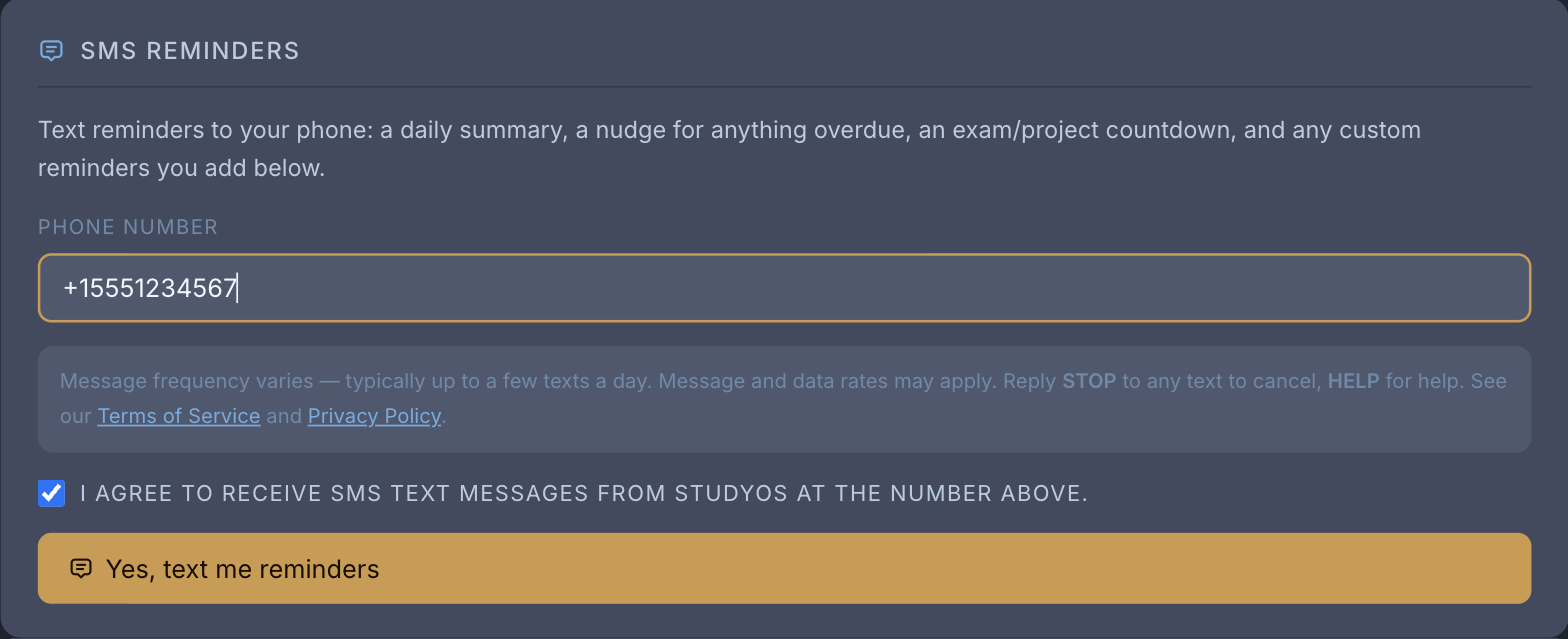
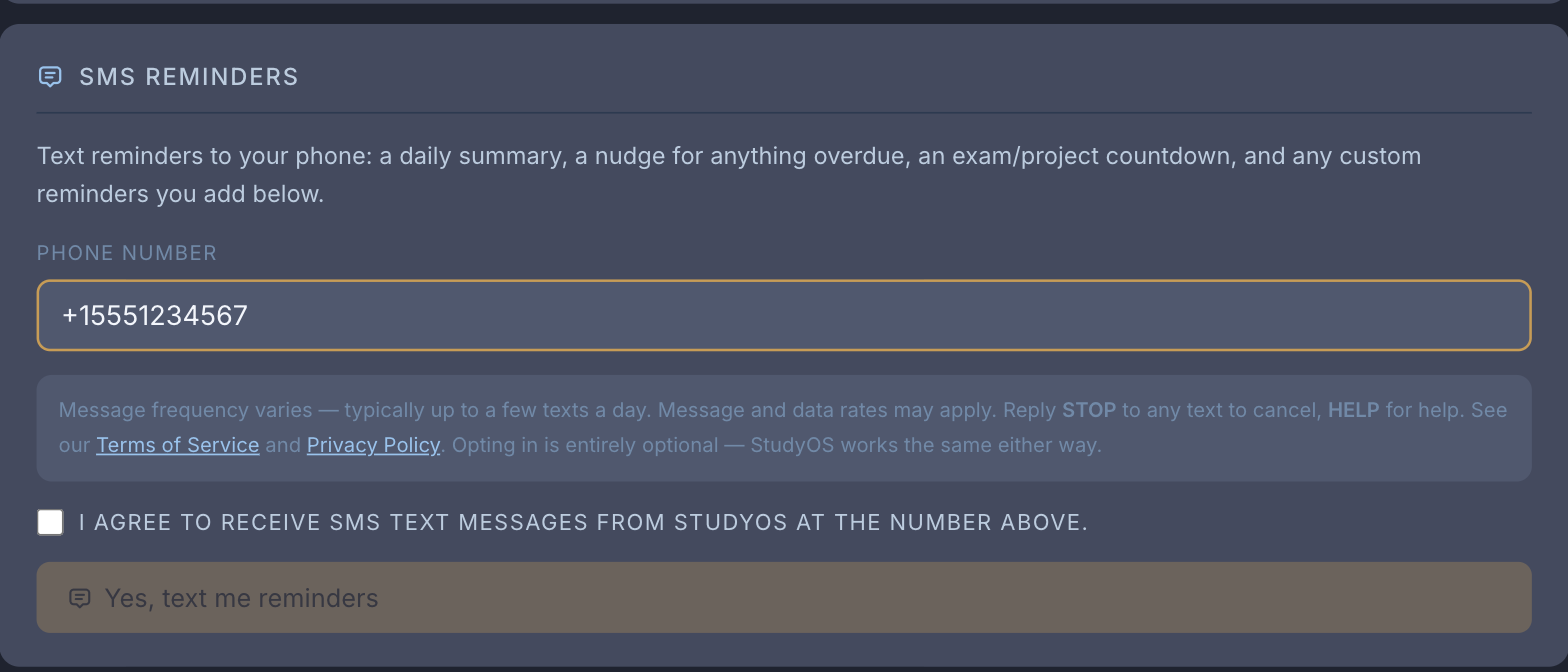
SMS opt-in evidence page: screenshot now shows the real unchecked-by-default state
Real cause of the Twilio A2P 10DLC rejection (Error 30925, checkbox
'pre-selected by default'): the code has always defaulted the
consent checkbox to unchecked -- the evidence screenshot on
studyos.io/sms-optin just happened to have been captured with the
box already checked, giving the reviewer exactly the wrong
impression.

- Retook the screenshot from the real live screen in its true
  default state -- box unchecked, submit button visibly
  disabled/greyed -- with a placeholder phone number instead of a
  real one.
- Fixed the image's alt text, which separately (and wrongly) said 'a
  checked consent checkbox', directly contradicting the correct
  'unchecked by default' text one paragraph above it. Strengthened
  the surrounding copy to call out the default state explicitly.

Claude-Session: https://claude.ai/code/session_017evPLa9F6u6Gpj79xWjiqx

diff --git a/app/sms-optin/page.jsx b/app/sms-optin/page.jsx
@@ -33,13 +33,15 @@ export default function SmsOptIn() {
           </ol>
           <p style={{ ...P, marginTop: 10 }}>
             This screen requires an account and login, so it isn't independently crawlable — the
-            screenshot below shows the exact, live screen from a real account.
+            screenshot below shows the exact, live screen from a real account, in its default
+            state: <strong>the consent checkbox unchecked, and the submit button correspondingly
+            disabled</strong> until the user actively checks it themselves.
           </p>
         </div>
 
         <div style={{ marginBottom: 28 }}>
-          <div style={H}>Screenshot of the live opt-in screen</div>
-          <img src="/sms-optin-screenshot.png" alt="StudyOS SMS Reminders opt-in screen, showing the phone number field, message frequency and rate disclosure, STOP/HELP instructions, Terms of Service and Privacy Policy links, a checked consent checkbox, and the Yes, text me reminders button."
+          <div style={H}>Screenshot of the live opt-in screen (default state)</div>
+          <img src="/sms-optin-screenshot.png" alt="StudyOS SMS Reminders opt-in screen in its default state: the phone number field, message frequency and rate disclosure, STOP/HELP instructions, Terms of Service and Privacy Policy links, an UNCHECKED consent checkbox reading 'I agree to receive SMS text messages from StudyOS at the number above,' and the 'Yes, text me reminders' submit button shown disabled/greyed out because the box has not been checked."
             style={{ width: "100%", borderRadius: 10, border: "1px solid var(--b1)", display: "block" }} />
         </div>
 

diff --git a/lib/version.js b/lib/version.js
@@ -3,6 +3,6 @@
 // Shared between components/App.jsx (top bar) and components/Today.jsx — NOT used for the daily
 // brief cache anymore (see lib/time.js's briefPeriodStart) precisely so a version bump never
 // invalidates it and fires an unnecessary paid AI call.
-export const APP_VERSION="2.79.0";
+export const APP_VERSION="2.79.1";
 export const APP_BUILD_DATE="2026-09-18";
-export const APP_BUILD_TIME="Schedule-driven study/break reminders — fires at the real planned clock time, no Play click needed";
+export const APP_BUILD_TIME="SMS opt-in evidence page: screenshot now shows the real unchecked-by-default state";

diff --git a/CHANGELOG.md b/CHANGELOG.md
@@ -1,5 +1,23 @@
 # StudyOS Changelog
 
+## v2.79.1 — 2026-09-18
+
+**SMS opt-in evidence page: screenshot now shows the real unchecked-by-default state**
+
+Real cause of a Twilio A2P 10DLC rejection (Error 30925, "opt-in flow ... does not show clear,
+affirmative consent ... checkbox cannot be pre-selected by default"): the actual code has always
+defaulted the consent checkbox to unchecked (`useState(false)`, confirmed) — the evidence
+screenshot on `studyos.io/sms-optin` just happened to have been captured with the box already
+checked, giving the reviewer the exact wrong impression.
+
+- Retook the screenshot from the real live screen in its true default state — box unchecked,
+  submit button visibly disabled/greyed (`disabled={!phone||!smsConsent}`) — with a placeholder
+  phone number (`+15551234567`) instead of a real one.
+- Fixed the image's `alt` text, which had separately (and wrongly) said "a checked consent
+  checkbox" — directly contradicting the correct "unchecked by default" text one paragraph above
+  it. Also strengthened the surrounding copy to call out the unchecked/disabled default state
+  explicitly, so there's no ambiguity for a human or automated reviewer this time.
+
 ## v2.79.0 — 2026-09-18
 
 **Schedule-driven study/break reminders — fires at the real planned clock time**
